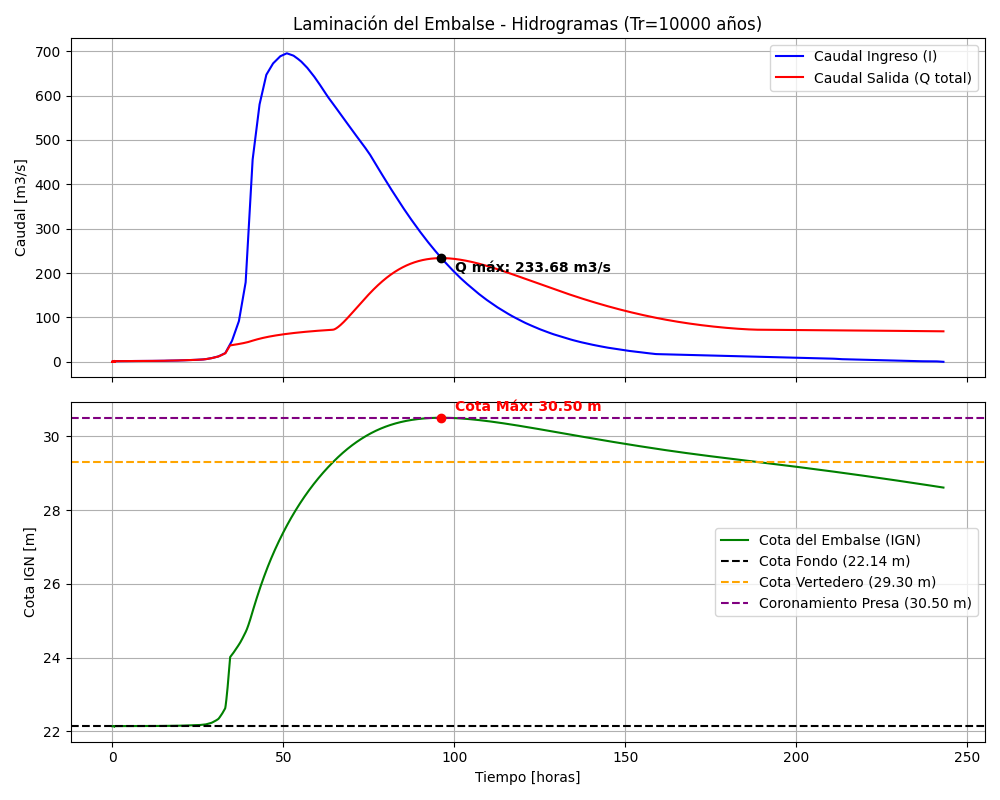
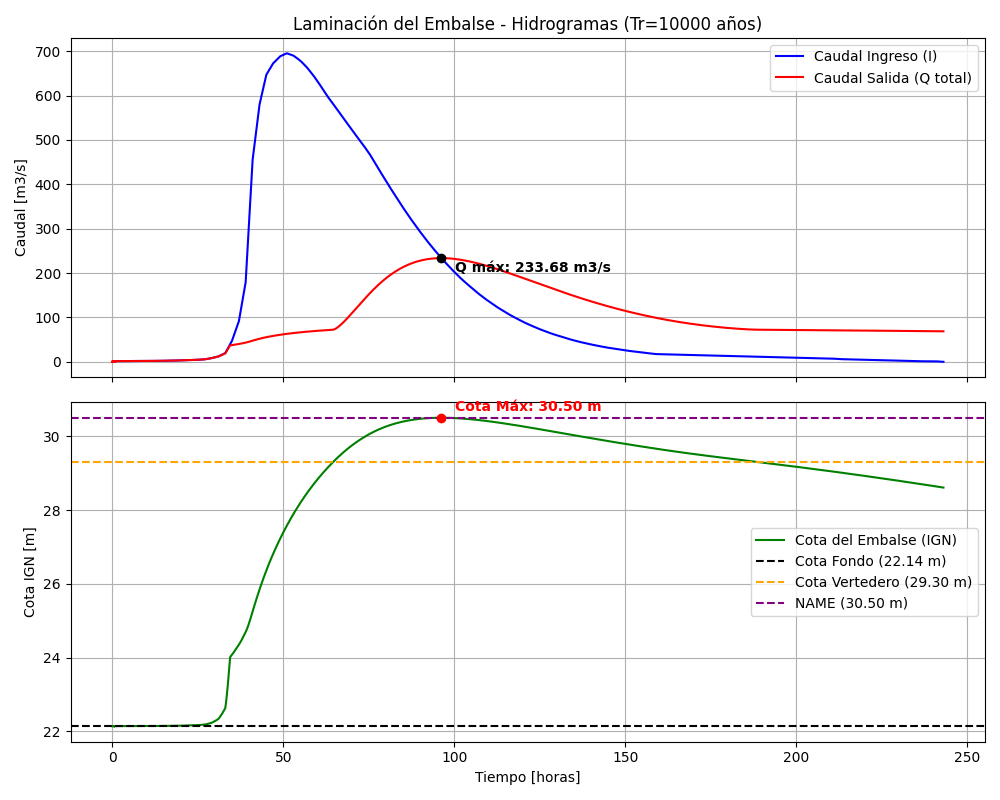
Corrección NAME

Changed region(s): [[0.713, 0.6562, 0.961, 0.7812]]

diff --git a/TP06 - Vertederos y Laminación/laminacion10000.py b/TP06 - Vertederos y Laminación/laminacion10000.py
@@ -127,7 +127,7 @@ def main():
     ax2.plot(tiempos / 3600, cota_sim, 'g-', label='Cota del Embalse (IGN)')
     ax2.axhline(C0, color='k', linestyle='--', label=f'Cota Fondo ({C0:.2f} m)')
     ax2.axhline(29.30, color='orange', linestyle='--', label='Cota Vertedero (29.30 m)')
-    ax2.axhline(30.50, color='purple', linestyle='--', label='Coronamiento Presa (30.50 m)')
+    ax2.axhline(30.50, color='purple', linestyle='--', label='NAME (30.50 m)')
     
     # Marcar Cota Máxima
     cota_max = np.max(cota_sim)
@@ -150,7 +150,7 @@ def main():
     print("Gráfico de laminación guardado en './resultados_laminacion10000.png'.")
     
     if cota_max > 30.50:
-        print(f"\nADVERTENCIA: La cota máxima ({cota_max:.2f} m) superó el coronamiento de la presa (30.50 m). PELIGRO DE DESBORDE!")
+        print(f"\nADVERTENCIA: La cota máxima ({cota_max:.2f} m) superó el NAME (30.50 m). PELIGRO DE DESBORDE!")
     else:
         print(f"\nLa presa no desborda. Revancha mínima: {30.50 - cota_max:.2f} m.")
 

diff --git a/TP06 - Vertederos y Laminación/informe_laminacion.md b/TP06 - Vertederos y Laminación/informe_laminacion.md
@@ -24,7 +24,7 @@ Donde:
 ### 2.3. Vertedero
 El escurrimiento por el vertedero de cresta libre inicia cuando el nivel del agua supera la cota de la cresta.
 - Cota de cresta del vertedero $= 29.30 \text{ m}$
-- Cota de coronamiento de la presa ($CCP$) $= 30.50 \text{ m}$
+- Nivel de Agua Máximo Extraordinario ($NAME$) $= 30.50 \text{ m}$
 - Longitud del vertedero ($L$) $= 45 \text{ m}$
 - Coeficiente de descarga ($C_d$) $= 4.03$
 
@@ -65,4 +65,4 @@ Para resolver la ecuación diferencial se emplea un esquema explícito de Euler 
      $$ \Delta Z = \frac{I(t_j) - Q_{total}(Z_j)}{A(Z_j)} \cdot \Delta t $$
    - **Paso E:** Actualizar la carga de agua para el intervalo $j+1$: 
      $$ Z_{j+1} = Z_j + \Delta Z $$
-4. **Verificación Estructural:** Al finalizar la integración en el tiempo total del hidrograma, el software filtra el arreglo de $Z_{sim}$ para hallar la cota pico. Se compara este máximo con la cota de coronamiento de la presa ($30.50 \text{ m}$). Si no se la supera, se informa el valor numérico de la revancha (freeboard disponible); si se la supera, el programa emite una advertencia crítica sobre el colapso (desborde) por rebase de la estructura. Este control de validez se aplicó tanto a $Tr=100$ como a $Tr=10000$ años.
+4. **Verificación Estructural:** Al finalizar la integración en el tiempo total del hidrograma, el software filtra el arreglo de $Z_{sim}$ para hallar la cota pico. Se compara este máximo con el NAME ($30.50 \text{ m}$). Si no se la supera, se informa el valor numérico de la revancha (freeboard disponible); si se la supera, el programa emite una advertencia crítica sobre el colapso (desborde) por rebase de la estructura. Este control de validez se aplicó tanto a $Tr=100$ como a $Tr=10000$ años.

diff --git a/TP06 - Vertederos y Laminación/datos/vertedero.md b/TP06 - Vertederos y Laminación/datos/vertedero.md
@@ -3,9 +3,9 @@ Q=0,552×C×L×H\power-index{e|1,5}
 
 C=4.03
 L=55m
-H_e = CCP - Cota IGN (altura del pelo de agua entre la cota de coronamiento del vertedero y cota de coronamiento de la presa). H_e puede ser como máximo 1,2m
+H_e = NAME - Cota IGN (altura del pelo de agua entre la cota de coronamiento del vertedero y el NAME). H_e puede ser como máximo 1,2m
 
-CCP= 30,5m (cota de coronamiento de la presa)
+NAME= 30,5m (nivel de agua máximo extraordinario)
 Cota IGN= Z+21m
 
 ## Parametrización
